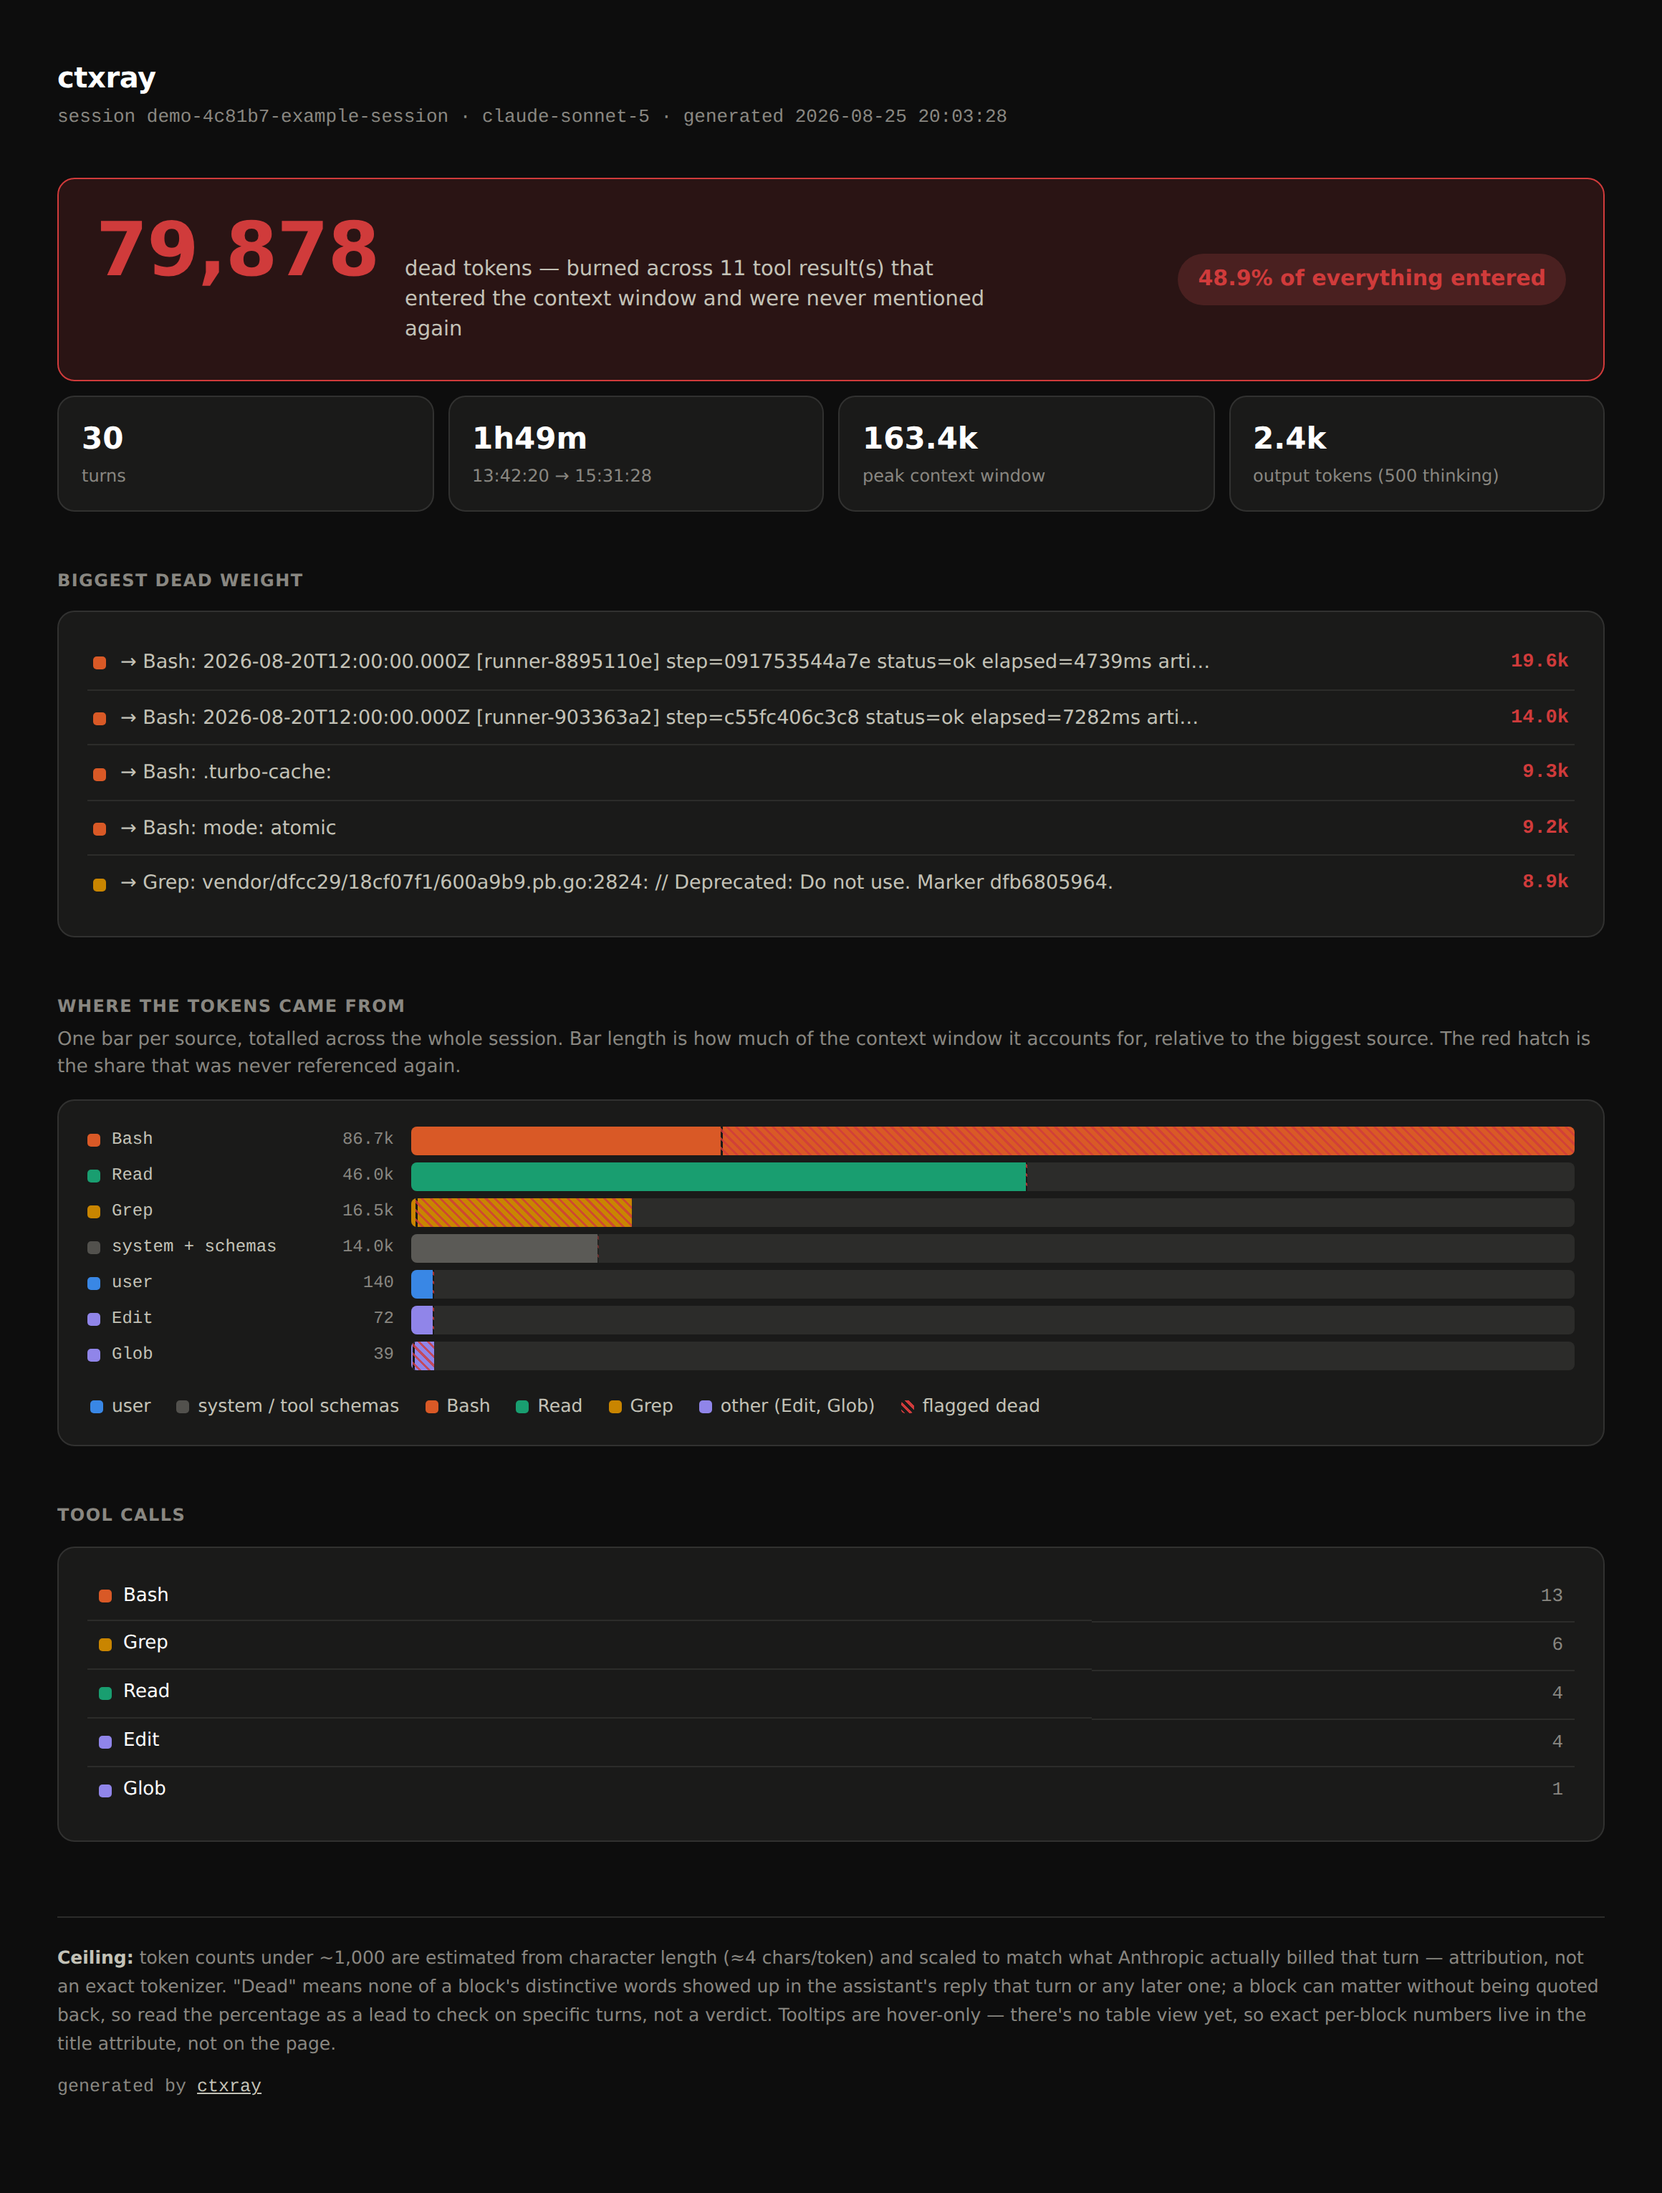
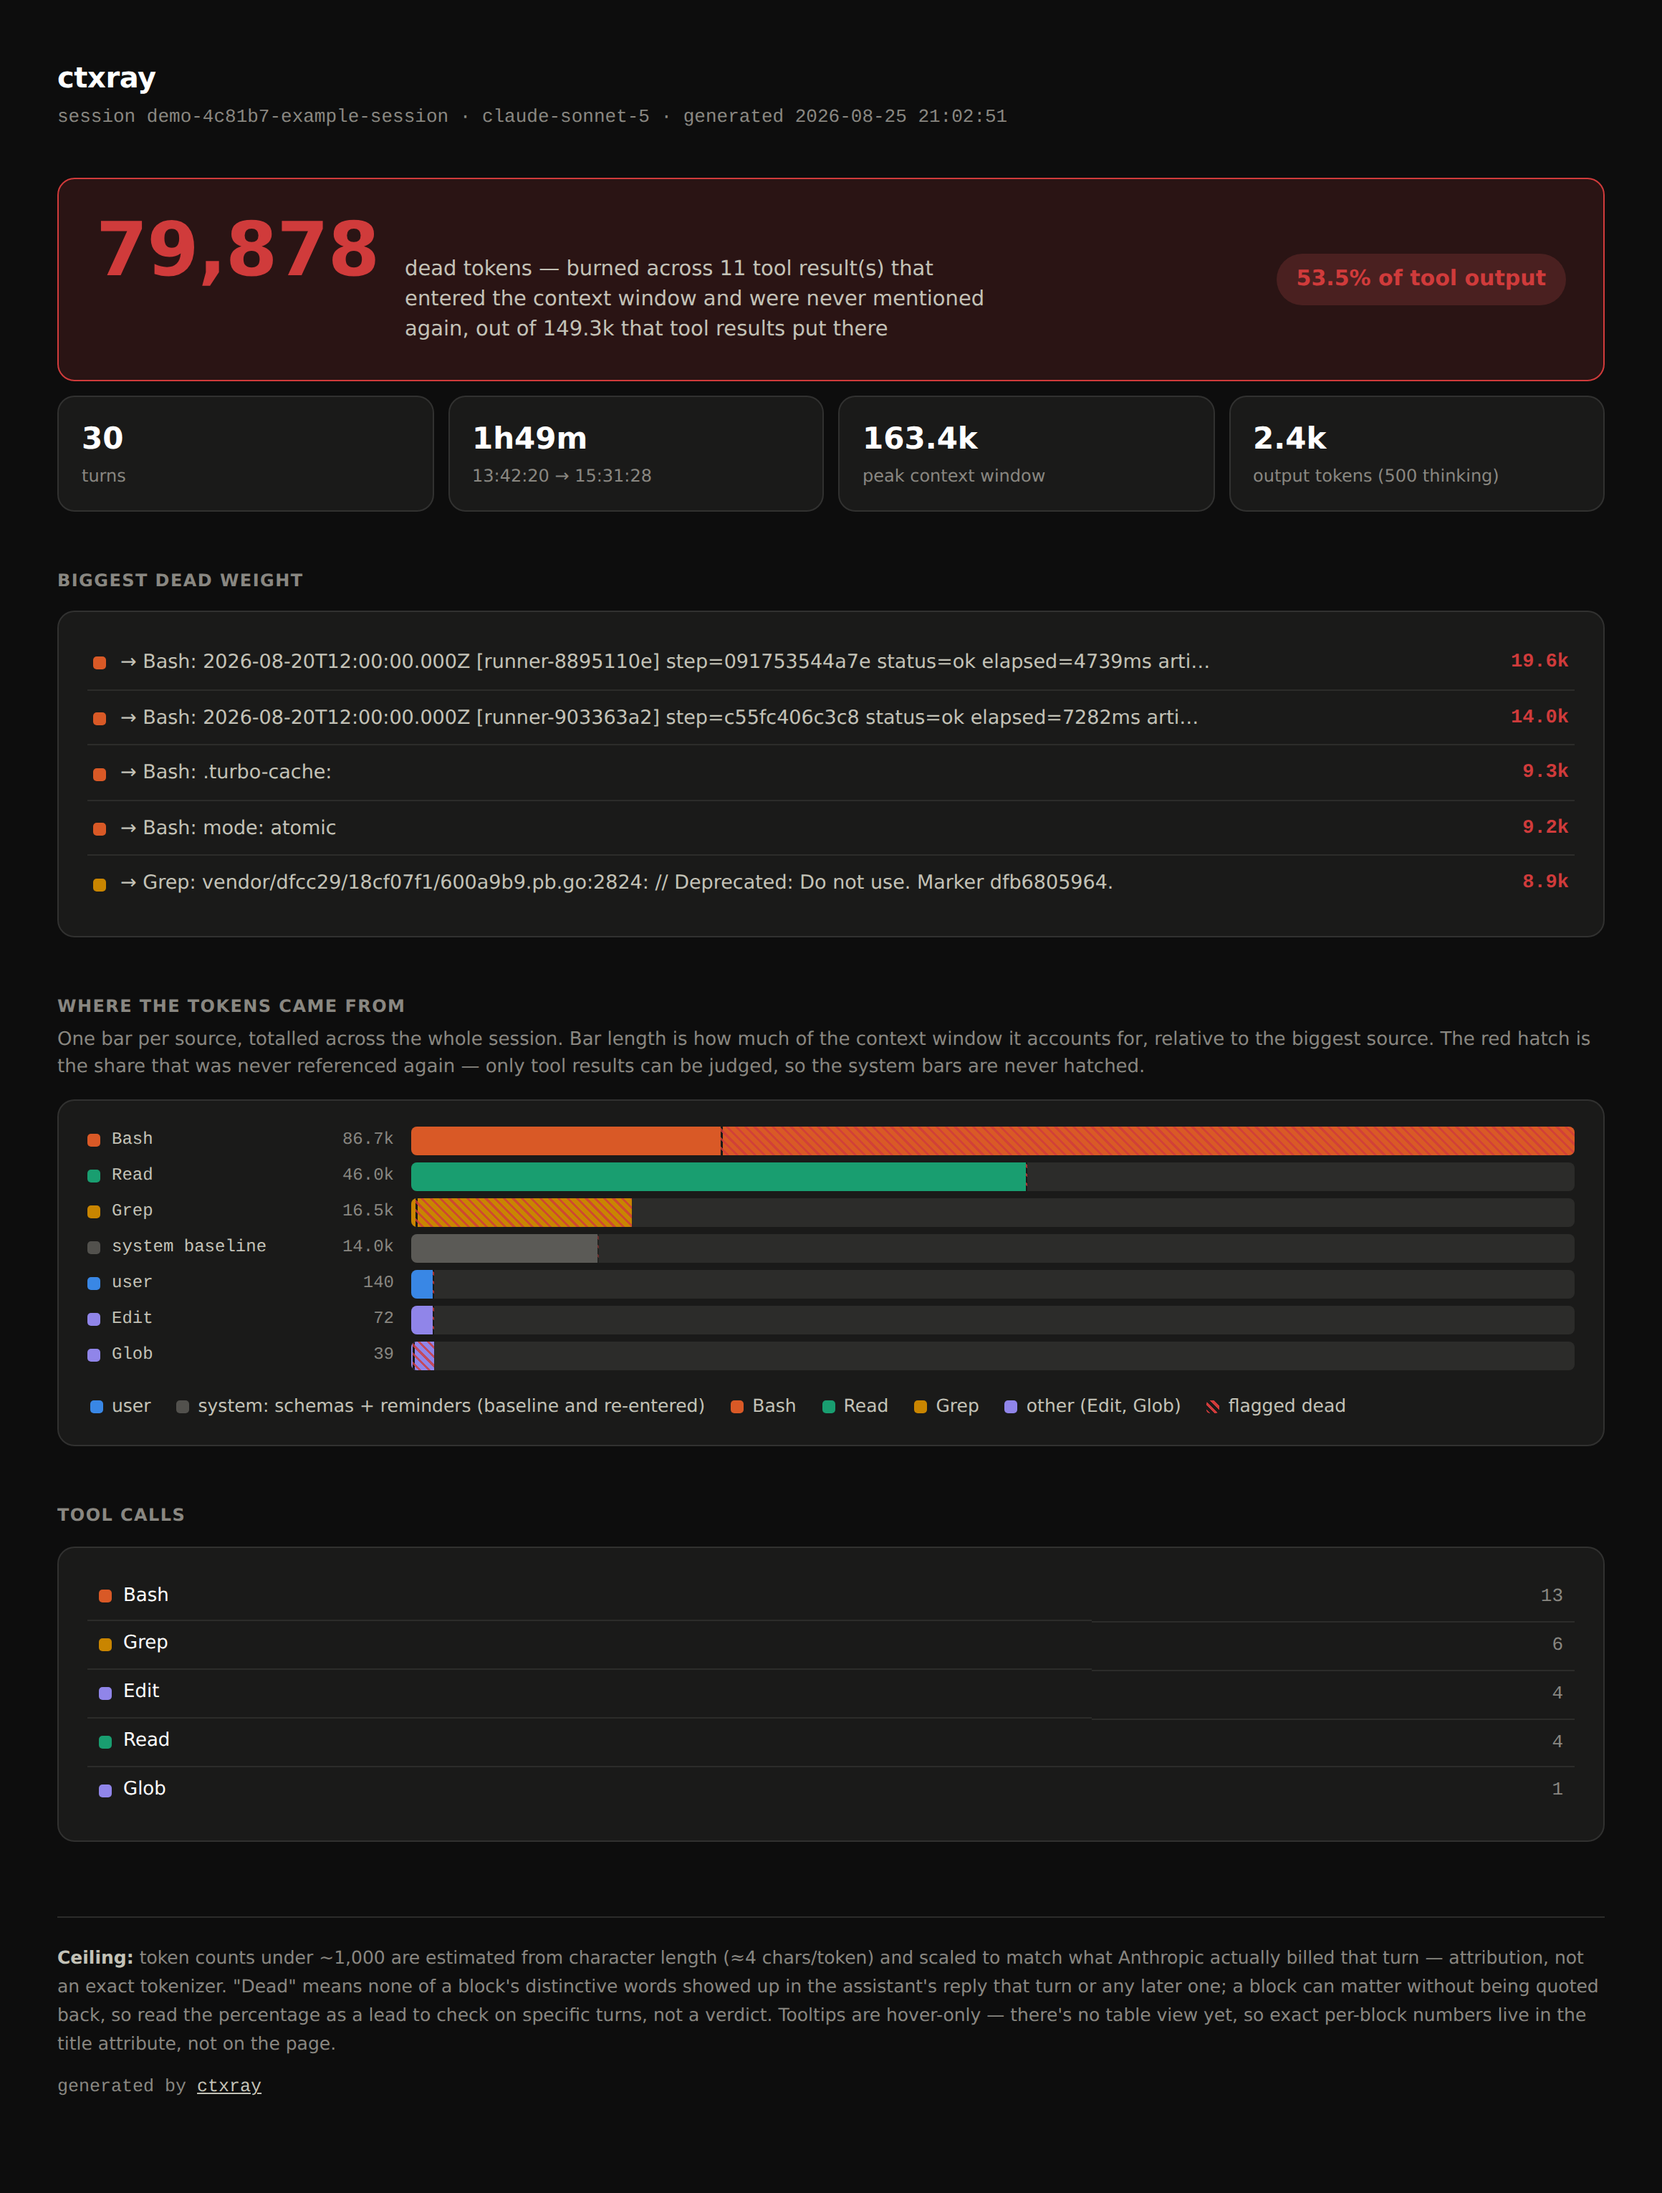
Measure dead against tool output, and split baseline overhead from churn
Running ctxray against a real 379-turn session exposed both problems.
It reported 0.6% dead where the synthetic demo reports 48.9%, and the gap
was not a property of the sessions.

The percentage was dead tokens over everything that entered the window.
But overhead — the system prompt and tool schemas — enters as a billing
delta with no text attached, so the dead pass can never judge it either
way. Including it in the denominator made the number a fact about how many
tool schemas were loaded: that session was 91% overhead, so it could not
have printed above 8.9% even if every tool result had been garbage. Now
measured against tool output only, the two sessions read 53.5% and 6.9%
and are finally the same measurement.

Overhead is also no longer one bar. On the first turn it is the system
prompt and schemas arriving once, which is unavoidable. On later turns it
means something re-entered the window — schemas re-cached after a server
reconnects, reminders injected — which is not. That real session spent
308.6k tokens, 77% of its entire context bill, on the second kind, and the
report gave no way to see it. It now gets its own stat tile whenever a
session has any.

diff --git a/internal/analyze/attribute.go b/internal/analyze/attribute.go
@@ -19,12 +19,12 @@ const charsPerToken = 4.0
 // and every tool schema first enter the cache — the remainder goes to a
 // synthetic "context:overhead" block instead of being silently folded
 // into whichever block happened to be pending.
-func attributeDelta(pending []pendingBlock, delta int) (blocks []Block, texts []string) {
+func attributeDelta(pending []pendingBlock, delta int, firstTurn bool) (blocks []Block, texts []string) {
 	if delta <= 0 {
 		return nil, nil
 	}
 	if len(pending) == 0 {
-		return []Block{overheadBlock(delta)}, []string{""}
+		return []Block{overheadBlock(delta, firstTurn)}, []string{""}
 	}
 
 	estimates := make([]int, len(pending))
@@ -37,7 +37,7 @@ func attributeDelta(pending []pendingBlock, delta int) (blocks []Block, texts []
 		return splitEvenly(pending, delta)
 	}
 	if estSum <= delta {
-		return attributeWithOverhead(pending, estimates, delta, estSum)
+		return attributeWithOverhead(pending, estimates, delta, estSum, firstTurn)
 	}
 	return attributeScaledDown(pending, estimates, delta, estSum)
 }
@@ -45,7 +45,7 @@ func attributeDelta(pending []pendingBlock, delta int) (blocks []Block, texts []
 // attributeWithOverhead is the common case: the heuristic token estimate
 // for what we saw undershoots what was actually billed, so each block
 // keeps its own estimate and the gap becomes an overhead block.
-func attributeWithOverhead(pending []pendingBlock, estimates []int, delta, estSum int) (blocks []Block, texts []string) {
+func attributeWithOverhead(pending []pendingBlock, estimates []int, delta, estSum int, firstTurn bool) (blocks []Block, texts []string) {
 	blocks = make([]Block, 0, len(pending)+1)
 	texts = make([]string, 0, len(pending)+1)
 	for i, p := range pending {
@@ -53,7 +53,7 @@ func attributeWithOverhead(pending []pendingBlock, estimates []int, delta, estSu
 		texts = append(texts, p.text)
 	}
 	if remainder := delta - estSum; remainder > 0 {
-		blocks = append(blocks, overheadBlock(remainder))
+		blocks = append(blocks, overheadBlock(remainder, firstTurn))
 		texts = append(texts, "")
 	}
 	return blocks, texts
@@ -98,10 +98,23 @@ func distributeRemainder(blocks []Block, remainder int) {
 	}
 }
 
-func overheadBlock(tokens int) Block {
+// overheadBlock accounts for growth the transcript does not explain. On
+// the first turn that is the system prompt and tool schemas arriving once,
+// which no session can avoid. On any later turn it means something
+// re-entered the window — schemas re-cached after a server reconnects,
+// injected reminders — which a session very much can avoid, so the two are
+// not the same finding and do not share a bar.
+func overheadBlock(tokens int, firstTurn bool) Block {
+	if firstTurn {
+		return Block{
+			Source: "context:overhead",
+			Label:  "system prompt, tool schemas, cache bookkeeping",
+			Tokens: tokens,
+		}
+	}
 	return Block{
-		Source: "context:overhead",
-		Label:  "system prompt, tool schemas, cache bookkeeping",
+		Source: "context:overhead-growth",
+		Label:  "re-entered context: schemas re-cached, reminders injected",
 		Tokens: tokens,
 	}
 }

diff --git a/internal/analyze/types.go b/internal/analyze/types.go
@@ -30,9 +30,26 @@ type Stats struct {
 	FinalContextTokens  int // window size at the last turn
 	PeakContextTokens   int
 	ToolCallCounts      map[string]int
-	DeadTokens          int
-	DeadTokenBlocks     int
-	DeadTokenPct        float64 // DeadTokens / TotalContextEntered, 0–1
+
+	// ToolTokens is everything that entered from a tool result — the only
+	// content the dead-block pass can actually judge. Overhead is inferred
+	// from a billing delta rather than read from the transcript, so it has
+	// no text to check and can never be flagged either way; counting it in
+	// the denominator would make the percentage a fact about how large the
+	// system prompt and tool schemas are rather than about wasted output.
+	ToolTokens int
+
+	// OverheadBaseline is the unattributable growth on the first turn: the
+	// system prompt and tool schemas entering the window once. Unavoidable.
+	// OverheadGrowth is the same kind of unattributable growth on every
+	// later turn — schemas re-cached, reminders injected — which is not
+	// unavoidable, and is worth separating for exactly that reason.
+	OverheadBaseline int
+	OverheadGrowth   int
+
+	DeadTokens      int
+	DeadTokenBlocks int
+	DeadTokenPct    float64 // DeadTokens / ToolTokens, 0–1
 }
 
 // Turn is one assistant reply: what entered the context window to produce
@@ -55,7 +72,7 @@ type Turn struct {
 // Block is one attributed slice of tokens: a tool result, a stretch of
 // user text, an assistant reply, a thinking block, or a tool call.
 type Block struct {
-	Source   string // "user" | "tool:<name>" | "context:overhead" | "assistant:text" | "assistant:thinking" | "assistant:tool_use:<name>"
+	Source   string // "user" | "tool:<name>" | "context:overhead" | "context:overhead-growth" | "assistant:text" | "assistant:thinking" | "assistant:tool_use:<name>"
 	Label    string
 	Tokens   int
 	RawChars int

diff --git a/internal/analyze/report.go b/internal/analyze/report.go
@@ -1,5 +1,7 @@
 package analyze
 
+import "strings"
+
 // buildReport aggregates finished turns into the headline stats. It has
 // exactly one job — sum things up — and knows nothing about how turns
 // were built or how blocks got attributed.
@@ -16,8 +18,13 @@ func buildReport(sessionID string, models []string, wip []wipTurn, toolCallCount
 		stats.FinalContextTokens = wip[len(wip)-1].turn.ContextTotal
 	}
 	stats.Duration = stats.EndTime.Sub(stats.StartTime)
-	if stats.TotalContextEntered > 0 {
-		stats.DeadTokenPct = float64(stats.DeadTokens) / float64(stats.TotalContextEntered)
+	// Against ToolTokens, not TotalContextEntered. Overhead can never be
+	// flagged dead — it has no text to check — so including it in the
+	// denominator caps the percentage at "how much of your window wasn't
+	// system prompt", which varies wildly with how many tool schemas are
+	// loaded and says nothing about whether output went to waste.
+	if stats.ToolTokens > 0 {
+		stats.DeadTokenPct = float64(stats.DeadTokens) / float64(stats.ToolTokens)
 	}
 
 	return Report{
@@ -40,6 +47,14 @@ func accumulateStats(stats *Stats, t Turn, isFirst bool) {
 
 	for _, b := range t.NewBlocks {
 		stats.TotalContextEntered += b.Tokens
+		switch {
+		case b.Source == "context:overhead":
+			stats.OverheadBaseline += b.Tokens
+		case b.Source == "context:overhead-growth":
+			stats.OverheadGrowth += b.Tokens
+		case strings.HasPrefix(b.Source, "tool:"):
+			stats.ToolTokens += b.Tokens
+		}
 		if b.Dead {
 			stats.DeadTokens += b.Tokens
 			stats.DeadTokenBlocks++

diff --git a/internal/render/build.go b/internal/render/build.go
@@ -42,6 +42,9 @@ func buildStatsVM(s analyze.Stats) StatsVM {
 		DeadTokensExact:     formatExact(s.DeadTokens),
 		DeadTokenPct:        formatPct(s.DeadTokenPct),
 		DeadTokenBlocks:     s.DeadTokenBlocks,
+		ToolTokens:          formatTokens(s.ToolTokens),
+		OverheadGrowth:      formatTokens(s.OverheadGrowth),
+		HasOverheadGrowth:   s.OverheadGrowth > 0,
 	}
 }
 
@@ -163,7 +166,9 @@ func sourceLabel(source string) string {
 	case source == "user":
 		return "user"
 	case source == "context:overhead":
-		return "system + schemas"
+		return "system baseline"
+	case source == "context:overhead-growth":
+		return "system re-entered"
 	default:
 		if name, ok := strings.CutPrefix(source, "tool:"); ok {
 			return name
@@ -196,7 +201,7 @@ var legendOrder = []struct {
 	label string
 }{
 	{slotUser, "user"},
-	{slotOverhead, "system / tool schemas"},
+	{slotOverhead, "system: schemas + reminders (baseline and re-entered)"},
 	{slotBash, "Bash"},
 	{slotRead, "Read"},
 	{slotGrep, "Grep"},

diff --git a/internal/analyze/walker.go b/internal/analyze/walker.go
@@ -115,7 +115,7 @@ func (w *walker) handleAssistant(msg *transcript.Message, ts time.Time) {
 	}
 	w.lastContext = ctxTotal
 
-	newBlocks, newText := attributeDelta(w.pending, delta)
+	newBlocks, newText := attributeDelta(w.pending, delta, len(w.wip) == 0)
 	w.pending = nil
 
 	thinkingTokens := msg.Usage.OutputTokensDetails.ThinkingTokens

diff --git a/internal/render/colors.go b/internal/render/colors.go
@@ -26,7 +26,7 @@ func slotFor(source string) slot {
 	switch {
 	case source == "user":
 		return slotUser
-	case source == "context:overhead":
+	case source == "context:overhead", source == "context:overhead-growth":
 		return slotOverhead
 	case source == "tool:Bash":
 		return slotBash

diff --git a/internal/render/types.go b/internal/render/types.go
@@ -35,6 +35,9 @@ type StatsVM struct {
 	DeadTokens          string
 	DeadTokensExact     string
 	DeadTokenPct        string
+	ToolTokens          string
+	OverheadGrowth      string
+	HasOverheadGrowth   bool
 	DeadTokenBlocks     int
 }
 

diff --git a/README.md b/README.md
@@ -71,6 +71,8 @@ The report opens on the total dead-token count, lists the five biggest dead bloc
 
 Per-block counts are estimated from character length (~4 chars/token) and scaled to what Anthropic actually billed that turn. Session totals are exact; the split between blocks inside a turn is attribution.
 
+The percentage is measured against tool output, not against the whole window. The system prompt and tool schemas enter the window as a billing delta with no text attached, so they can never be judged either way — counting them in the denominator would turn the number into a fact about how many tool schemas you have loaded rather than about wasted output.
+
 ## Contact
 
 - LinkedIn: https://www.linkedin.com/in/gabriel-gerhardt27/
